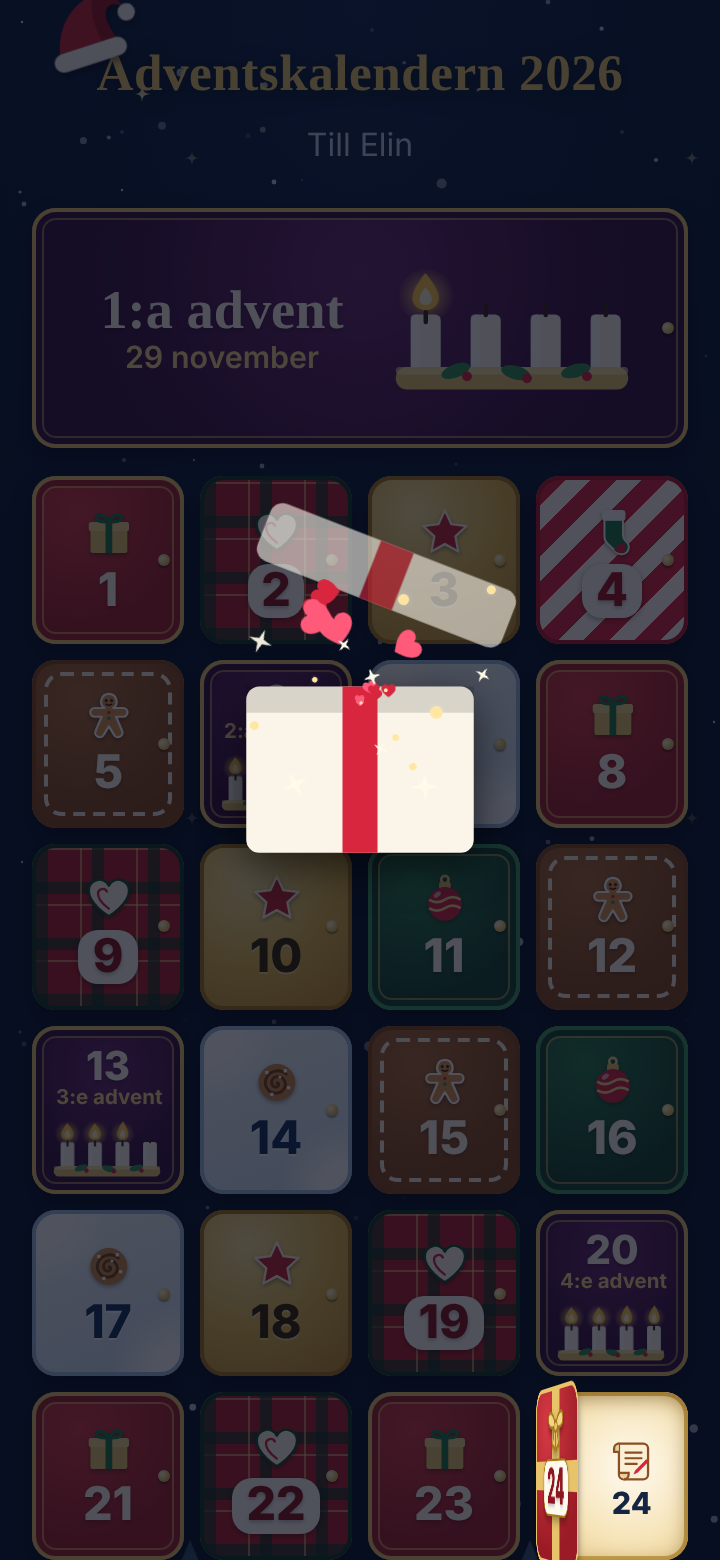
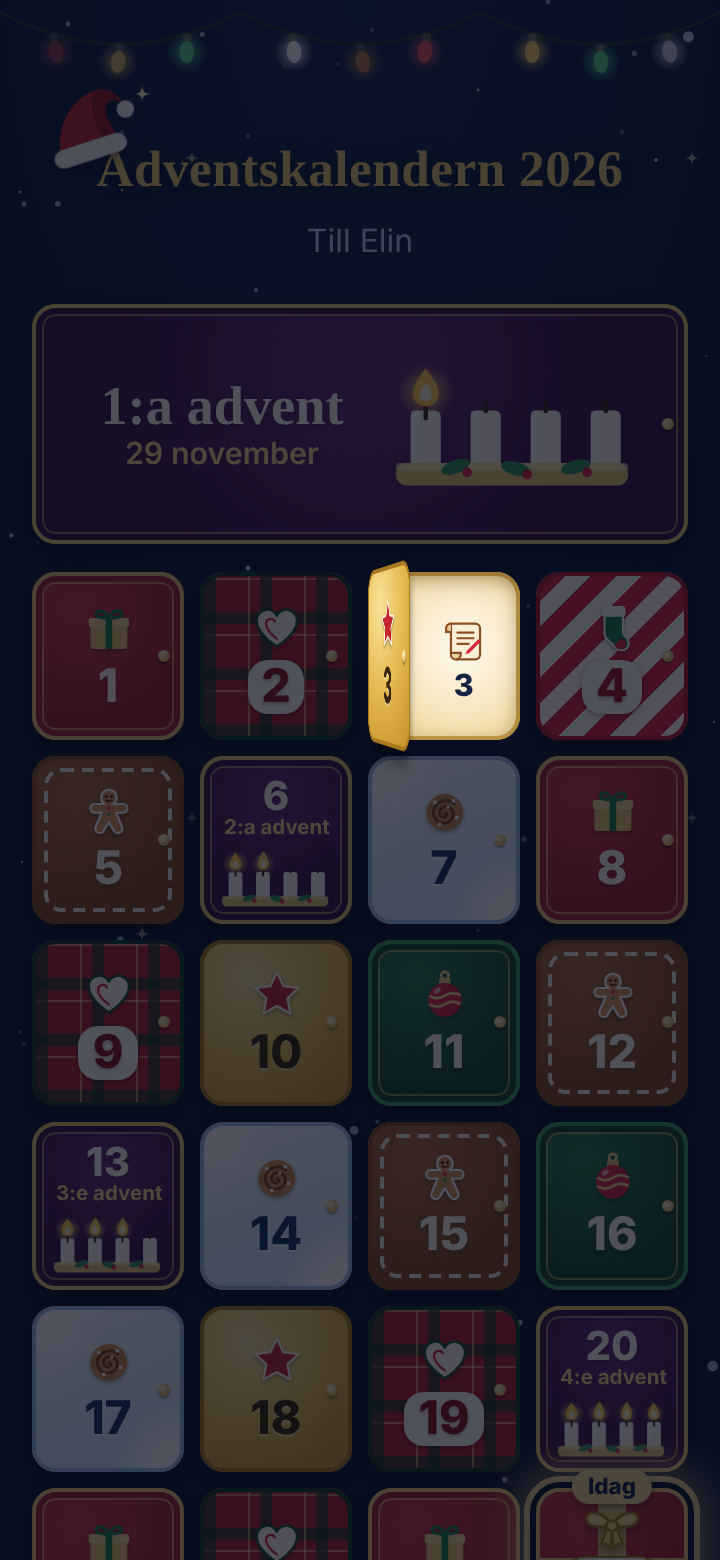
Precache Tomten, bump CACHE_VERSION and document milestone 8
sw.js precaches js/tomte.js, js/tomte-ui.js and content/tomte.json
(served stale-while-revalidate like days.json) and CACHE_VERSION is now
v4. README describes Tomten, the tomte.json format, the dev panel
additions and the assumptions made. Screenshots are regenerated with
the jakt type and Tomten, and an e2e test covers Tomten offline.

Claude-Session: https://claude.ai/code/session_01KKJVi6W52enEoGQDegDN5j

diff --git a/sw.js b/sw.js
@@ -1,9 +1,10 @@
 // Service worker: makes the app work offline after the first visit.
 //
 // Bump CACHE_VERSION whenever anything in the app shell changes (HTML, CSS, JS, icons,
-// manifest). Pure content changes in content/days.json need no bump: that file is
-// served stale-while-revalidate, so edits reach the phone on the next start.
-const CACHE_VERSION = 'v3';
+// manifest). Pure content changes in content/days.json or content/tomte.json need no
+// bump: those files are served stale-while-revalidate, so edits reach the phone on the
+// next start.
+const CACHE_VERSION = 'v4';
 
 const SHELL_CACHE = `advent-shell-${CACHE_VERSION}`;
 // Not versioned, so the last known content survives a shell update.
@@ -24,13 +25,15 @@ const SHELL_FILES = [
   'js/themes.js',
   'js/icons.js',
   'js/effects.js',
+  'js/tomte.js',
+  'js/tomte-ui.js',
   'icons/favicon.svg',
   'icons/icon-192.png',
   'icons/icon-512.png',
   'icons/icon-maskable-512.png',
   'icons/apple-touch-icon-180.png',
 ];
-const CONTENT_FILE = 'content/days.json';
+const CONTENT_FILES = ['content/days.json', 'content/tomte.json'];
 
 const scoped = (path) => new URL(path, self.registration.scope).href;
 
@@ -44,9 +47,9 @@ self.addEventListener('install', (event) => {
   event.waitUntil(
     (async () => {
       await precache(SHELL_CACHE, SHELL_FILES);
-      // The first page load fetches days.json before this worker controls the page,
+      // The first page load fetches the content before this worker controls the page,
       // so cache it here too, otherwise the app would not start offline.
-      await precache(CONTENT_CACHE, [CONTENT_FILE]);
+      await precache(CONTENT_CACHE, CONTENT_FILES);
       await self.skipWaiting();
     })(),
   );
@@ -87,9 +90,8 @@ async function navigate(request) {
 }
 
 // Stale-while-revalidate: answer from the cache at once, refresh it in the background.
-async function staleWhileRevalidate(event) {
+async function staleWhileRevalidate(event, key) {
   const cache = await caches.open(CONTENT_CACHE);
-  const key = scoped(CONTENT_FILE);
   const cached = await cache.match(key);
   const refresh = fetch(key, { cache: 'no-cache' }).then(async (response) => {
     if (response.ok) await cache.put(key, response.clone());
@@ -108,8 +110,9 @@ self.addEventListener('fetch', (event) => {
   const url = new URL(request.url);
   if (url.origin !== self.location.origin || !url.href.startsWith(self.registration.scope)) return;
 
-  if (withoutQuery(url) === scoped(CONTENT_FILE)) {
-    event.respondWith(staleWhileRevalidate(event));
+  const contentKey = CONTENT_FILES.map(scoped).find((key) => key === withoutQuery(url));
+  if (contentKey) {
+    event.respondWith(staleWhileRevalidate(event, contentKey));
   } else if (request.mode === 'navigate' && isAppPage(url)) {
     event.respondWith(navigate(request));
   } else {

diff --git a/tests/e2e/tomte.spec.js b/tests/e2e/tomte.spec.js
@@ -175,3 +175,20 @@ test('dev: play any scene, the date override picks the current one, reset scenes
   await expect(panel.locator('.dev-tomte-item.is-current')).not.toContainText('sedd');
   expect(await page.evaluate(() => localStorage.getItem('advent.tomte.scenesSeen'))).toBeNull();
 });
+
+test('Tomten works offline after the first visit', async ({ page, context }) => {
+  await markSeen(page);
+  await page.clock.setFixedTime(at('2026-11-29'));
+  await gotoApp(page);
+  await page.evaluate(async () => {
+    await navigator.serviceWorker.ready;
+    if (!navigator.serviceWorker.controller) {
+      await new Promise((resolve) => navigator.serviceWorker.addEventListener('controllerchange', resolve, { once: true }));
+    }
+  });
+
+  await context.setOffline(true);
+  await page.clock.setFixedTime(at('2026-11-30'));
+  await page.reload();
+  await expect(bubbleText(page)).toHaveText('Ho ho ho! God måndag, Elin.');
+});

diff --git a/README.md b/README.md
@@ -51,7 +51,8 @@ node --test
 npm test
 ```
 
-`tests/content.test.js` validerar även `content/days.json` (se "Lägga till och ändra luckor").
+`tests/content.test.js` validerar även `content/days.json` (se "Lägga till och ändra luckor")
+och `tests/tomte.test.js` testar tomtens logik och validerar `content/tomte.json` (se "Tomten").
 
 ### E2e (Playwright)
 
@@ -66,6 +67,10 @@ npm install                       # bara dev-beroendet @playwright/test
 npx playwright install chromium   # första gången
 npm run test:e2e
 ```
+
+`tests/e2e/tomte.spec.js` testar tomten: intro, välkomst, scener, frågor, dev-panelen och offline.
+De andra e2e-testerna markerar alla tomtescener som sedda (`tests/e2e/helpers.js`), så att
+tomten inte står i vägen.
 
 Playwright startar själv en liten testserver (`tests/e2e/serve.mjs`) på port 4173.
 
@@ -102,6 +107,12 @@ Dev-läget låter dig testa alla dagar utan att vänta på rätt datum.
   - **Spela upp animation**: välj lucka och animation ("Luckans egen" är den som
     `type`/`animation` ger) och förhandsgranska. Luckan markeras inte som öppnad och
     det fungerar även på låsta luckor.
+  - **Tomten**: intro, välkomst och alla scener med knappen **Spela upp**, som visar dem
+    direkt oavsett datum och om de redan setts (och utan att markera dem som sedda).
+    Scenen som det simulerade datumet pekar på är markerad "aktuell", och "sedd" visar vad
+    som redan visats. Ladda om sidan för att se det Elin skulle se vid en appstart med det
+    datumet. **Nollställ tomtescener** glömmer allt tomten visat och alla svar (även intro
+    och välkomst).
 - Utan flaggan laddas `js/dev.js` aldrig och inget dev-element finns i DOM:en.
 - OBS: en installerad PWA på iOS har egen `localStorage`, så dev-flaggan från Safari
   gäller inte där. Testa datumlogik i webbläsaren och installationen separat.
@@ -156,6 +167,74 @@ Efter en ändring: ladda om i webbläsaren och kontrollera att kalendern syns (e
 fil ger ett felmeddelande). Pusha till `main`, så når ändringen telefonen nästa gång
 appen startas. Ingen `CACHE_VERSION`-bump behövs för innehållsändringar.
 
+## Tomten
+
+En tomte (SVG med samma tomteluva som rubriken) som pratar med Elin i en pratbubbla. Han
+dyker upp högst en gång per appstart:
+
+1. **Intro** första gången appen öppnas i en vanlig webbläsarflik. Sista repliken visar
+   knappen "Installera appen" om Chrome erbjuder installation, annars en kort hjälptext.
+2. **Välkomst** första gången appen startas installerad (från hemskärmen).
+3. Annars en **scen** om dagens datum ligger mellan scenens `from` och `until` och den
+   inte redan visats. Varje scen visas bara en gång.
+
+"Nästa" stegar mellan replikerna, frågor har en knapp per svar och tomten svarar direkt.
+Svaren sparas bara i telefonen (`localStorage`) och används bara för tomtens repliker.
+Allt innehåll ligger i `content/tomte.json`:
+
+```json
+{
+  "name": "Tomten",
+  "intro": {
+    "lines": ["Ho ho ho! Hej Elin, det är jag, tomten.", "..."],
+    "installButton": "Installera appen",
+    "installHelp": "Om knappen inte syns: ...",
+    "doneButton": "Nu kör vi"
+  },
+  "welcome": { "lines": ["Ho ho ho, välkommen, Elin!"] },
+  "scenes": [
+    {
+      "id": "v1-uppfoljning",
+      "from": "2026-12-03",
+      "until": "2026-12-06",
+      "lines": ["Hej igen, Elin!"],
+      "questions": [
+        {
+          "id": "gran",
+          "text": "Har ni fixat julgranen?",
+          "options": [
+            { "label": "Ja, den står där", "reply": "Fint!" },
+            { "label": "Inte än", "reply": "Då är det dags." }
+          ]
+        }
+      ],
+      "closing": { "allPositive": "Fantastiskt!", "someNegative": "Jag tror på er." }
+    }
+  ]
+}
+```
+
+- `name` visas ovanför pratbubblan (valfritt, standard "Tomten").
+- `intro` och `welcome` är valfria. `lines` visas en i taget. `installButton`,
+  `installHelp` och `doneButton` (bara intro) har svenska standardtexter om de saknas.
+- `scenes[].id` måste vara unikt. Byt inte `id` på en scen som redan visats.
+- `from` och `until` är `YYYY-MM-DD` (lokalt datum), båda inklusive.
+- Ordningen i en scen: `lines`, sedan väderrepliker, sedan `questions` och sist `closing`.
+- `questions` är valfritt. Första alternativet räknas som det positiva svaret: om alla svar
+  var det första visas `closing.allPositive`, annars `closing.someNegative`. `closing` är
+  valfritt (och båda texterna i den).
+- `weatherVariants` (`good`, `bad`, `unknown`) och `forecastFor` förbereder väder. Än så
+  länge visas alltid `unknown`: `getWeatherVariant()` i `js/tomte.js` returnerar
+  `"unknown"` tills väderhämtning kopplas in.
+- Överlappar flera scener visas den med senast `from`, och de andra räknas som sedda.
+- Texterna visas precis som de står (ingen HTML).
+- `npm test` validerar filen: giltiga och unika `id`, giltiga datum med `from` <= `until`,
+  frågor med svarsalternativ och `reply`, och att väderscener har `unknown`.
+- Är filen trasig eller saknas syns ingen tomte, men kalendern fungerar som vanligt.
+
+Prova tomten med dev-läget (se ovan). Precis som `days.json` hämtas `tomte.json` med
+stale-while-revalidate, så ändringar kräver ingen `CACHE_VERSION`-bump.
+
 ## Deploy och CACHE_VERSION
 
 Sajten deployas direkt från `main` med GitHub Pages
@@ -171,8 +250,8 @@ const CACHE_VERSION = 'v2'; // var 'v1'
 ```
 
 - Lägger du till en ny fil i appskalet: lägg även till den i `SHELL_FILES` i `sw.js`.
-- Ändrar du bara `content/days.json` behövs ingen bump. Filen hämtas med
-  stale-while-revalidate: appen visar den sparade versionen direkt och hämtar en ny
+- Ändrar du bara `content/days.json` eller `content/tomte.json` behövs ingen bump.
+  Filerna hämtas med stale-while-revalidate: appen visar den sparade versionen direkt och hämtar en ny
   i bakgrunden, som syns vid nästa start.
 - Efter en bump laddas den nya versionen ner när appen startas och används från
   starten därefter (alltså ibland först vid andra starten).
@@ -189,6 +268,45 @@ npm run icons
 och bumpa sedan `CACHE_VERSION`.
 
 ## Antaganden
+
+### Tomten och lucktypen jakt (milstolpe 8)
+
+- `PLAN.md` sa att allt innehåll ligger i `days.json`. Det gäller fortfarande luckorna;
+  tomtens repliker ligger i `content/tomte.json` som önskat, och "Beslut" är uppdaterat
+  med det.
+- "Max en scen per appstart, intro och welcome går först" tolkas som att tomten visar
+  högst en sak per start. Visas intro eller välkomst kommer en aktuell scen vid nästa
+  start (om den fortfarande är i sitt datumfönster).
+- En "appstart" är när sidan laddas, och även när appen kommer tillbaka från bakgrunden
+  på en ny dag. Telefoner håller ofta en installerad app vid liv i dagar, och då skulle
+  veckans scen annars missas.
+- En scen räknas som sedd så fort den visas, inte när man klickat sig igenom den. Stänger
+  Elin tomten med × eller Esc kommer scenen alltså inte tillbaka. Ett tryck utanför
+  pratbubblan stänger inte (så att man inte råkar avbryta tomten).
+- Tomten väntar 0,6 s efter att kalendern visats, och väntar tills en öppnad lucka är
+  stängd. Med `prefers-reduced-motion` dyker han upp direkt utan hopp och "Ho ho ho".
+- Sista knappen heter "Hej då!" (introts heter `doneButton`, "Nu kör vi"). Det finns även
+  ett × för att stänga.
+- Intro och välkomst har egna flaggor. På iOS har den installerade appen egen
+  `localStorage`, så där får Elin både introt (i Safari) och välkomsten (i appen).
+- Introts installationsknapp använder samma `beforeinstallprompt` som knappen
+  "Installera" under rubriken: används prompten på det ena stället försvinner båda.
+  Dyker prompten upp medan introt visas byts hjälptexten ut mot knappen. iOS-rutan
+  ("Lägg till på hemskärmen") visas som förut, under tomten.
+- Svaren sparas per scen och fråga som index för valt alternativ
+  (`advent.tomte.answers`). En obesvarad fråga räknas inte som positiv.
+- Väderscener visar alltid `unknown`. Saknar en scen en variant används `unknown`.
+- I dev-panelen markeras inte en uppspelad scen som sedd, så att man kan spela upp den
+  flera gånger. "Nollställ tomtescener" glömmer även intro, välkomst och svar.
+- `tomte.json` valideras strikt (samma princip som `days.json`): ett fel gör att tomten
+  inte visas alls, i stället för att visa fel scen.
+- Lucktypen `jakt` har en mintgrön accent och ett förstoringsglas med guldkant och
+  gnistra i glaset (`ledtrad` har redan ett blått förstoringsglas). Animationen heter
+  `magnifier`: en lapp flyger ut ur luckan, förstoringsglaset sveper i sicksack över den,
+  och kortet glittrar (en glansrand och små guldprickar) när texten visas.
+- `verse` renderades redan i kursiv under titeln (milstolpe 7), så inget ändrades där.
+- Skärmdumpsskriptet tar nu bilder av alla fem typer från riktiga luckor (det behöver inte
+  längre låna en dag för `litet`) och två bilder på tomten.
 
 ### Jul-design och animationer (milstolpe 7)
 
@@ -227,8 +345,7 @@ och bumpa sedan `CACHE_VERSION`.
 - Bara `label` för 2026-12-13 ändrades i `days.json`. Titeln ("Vi lussar för Saga och
   mormor") och texten ("Glad Lucia!") handlar redan om Lucia och lämnades orörda.
 - Skärmdumparna i `docs/screenshots/` tas med `npm run screenshots` (Playwright, 360 px).
-  `days.json` saknar ännu en lucka av typen `litet`, så skriptet lånar 2 december för den
-  bilden. Mappen ingår inte i appskalet.
+  Mappen ingår inte i appskalet.
 
 ### PWA, tester och deploy (milstolpe 4 och 5)
 
